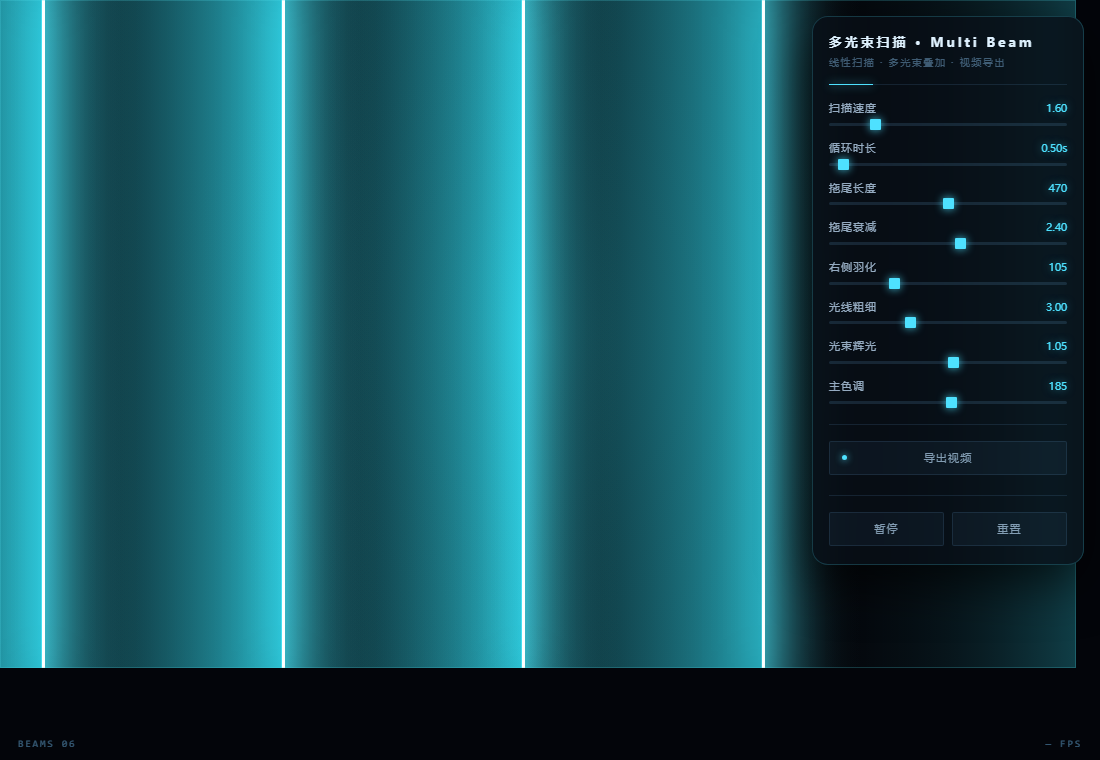
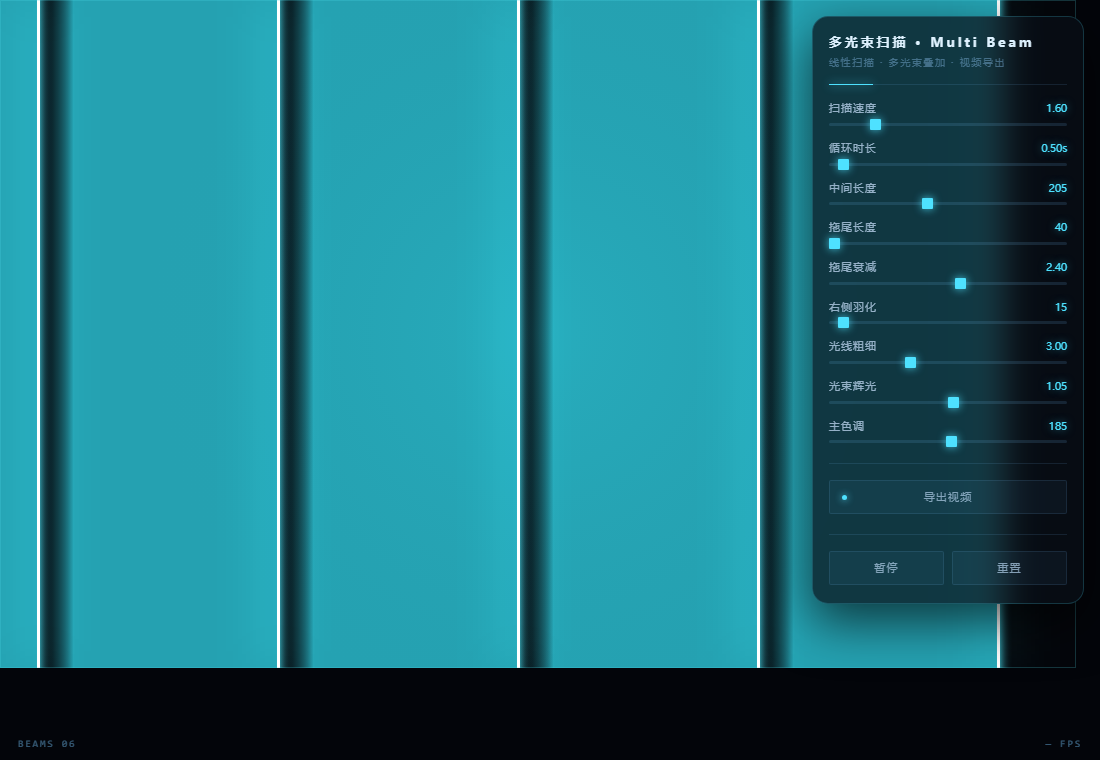
refactor: 多光束扫描更新至 v3.1（中间实心区 + 居中缩放导出）
- 用 v3.1 逻辑替换 multi-beam.html：新增「中间长度」参数，每条光束拆为
  左侧渐变拖尾 + 中间恒定亮度实心区 + 右侧羽化；初始光束位置与回收逻辑同步调整
- 导出流程改为按显示比例居中缩放渲染，下载文件名统一为 multi-beam_*.webm
- 重新生成 screenshots/multi-beam.png（1100×760）
- README 参数要点、index 卡片描述、CHANGELOG v0.8.1、AGENTS 文档基线已同步

diff --git a/experiments/线性扫描/multi-beam.html b/experiments/线性扫描/multi-beam.html
@@ -103,7 +103,6 @@
     height: 3px; background: rgba(120, 200, 255, 0.14); border-radius: 2px;
   }
 
-  /* ---- Select ---- */
   select {
     width: 100%; padding: 8px 10px;
     background: rgba(120, 200, 255, 0.06);
@@ -121,7 +120,6 @@
   select:focus { border-color: var(--accent); box-shadow: 0 0 8px rgba(78, 225, 255, 0.25); }
   select option { background: #080b11; color: #cfe2f2; }
 
-  /* ---- 通用按钮 ---- */
   .btn {
     display: block; width: 100%; padding: 9px 6px;
     font-family: inherit; font-size: 10.5px; letter-spacing: 0.16em;
@@ -142,7 +140,6 @@
     background: #7aebff; color: #041018; box-shadow: 0 0 26px rgba(78, 225, 255, 0.6);
   }
 
-  /* ---- 导出区域 ---- */
   .export-section { margin-top: 20px; padding-top: 16px; border-top: 1px solid var(--line); }
   .export-toggle { position: relative; }
   .export-toggle::before {
@@ -190,9 +187,9 @@
       <div class="ctrl">
         <div class="ctrl-head">
           <span class="ctrl-label">导出时长</span>
-          <span class="ctrl-val" id="exp-dur-val">5s</span>
+          <span class="ctrl-val" id="exp-dur-val">8s</span>
         </div>
-        <input type="range" id="exp-dur" min="1" max="30" step="1" value="5">
+        <input type="range" id="exp-dur" min="1" max="30" step="1" value="8">
       </div>
 
       <div class="ctrl">
@@ -245,9 +242,10 @@
   const config = [
     { key: 'speed',       label: '扫描速度',   min: 0.2, max: 8,   step: 0.1,  value: 1.60 },
     { key: 'cycleTime',   label: '循环时长',   min: 0.2, max: 8,   step: 0.1,  value: 0.50, unit: 's' },
-    { key: 'trailLength', label: '拖尾长度',   min: 40,  max: 900, step: 10,   value: 470 },
+    { key: 'coreLength',  label: '中间长度',   min: 0,   max: 500, step: 5,    value: 205 },
+    { key: 'trailLength', label: '拖尾长度',   min: 40,  max: 900, step: 10,   value: 40 },
     { key: 'trailCurve',  label: '拖尾衰减',   min: 0.4, max: 4,   step: 0.05, value: 2.40 },
-    { key: 'feather',     label: '右侧羽化',   min: 0,   max: 400, step: 5,    value: 105 },
+    { key: 'feather',     label: '右侧羽化',   min: 0,   max: 400, step: 5,    value: 15 },
     { key: 'lineWidth',   label: '光线粗细',   min: 0.5, max: 8,   step: 0.5,  value: 3.00 },
     { key: 'beamGlow',    label: '光束辉光',   min: 0,   max: 2,   step: 0.05, value: 1.05 },
     { key: 'hue',         label: '主色调',     min: 0,   max: 360, step: 1,    value: 185 }
@@ -324,19 +322,21 @@
     return { beams: [], spawnTimer: 0 };
   }
 
-  function resetState(state, p) {
+  function resetState(state) {
     state.beams = [];
     state.spawnTimer = 0;
-    state.beams.push({ x: 0 });
+    // 初始光束放在视野内，保证一开始就有可见的光束
+    state.beams.push({ x: 100 });
   }
 
   /* ==================== 更新逻辑 ==================== */
-  function updateState(state, dt, W, H, p, sc) {
+  function updateState(state, dt, W, H, p) {
     const dtSec = dt / 60;
-    const trail = p.trailLength * sc;
+    const trail = p.trailLength;
+    const core  = p.coreLength;
     const cycle = Math.max(0.05, p.cycleTime);
 
-    /* ---- 生成新光束（允许旧光束未扫完时叠加） ---- */
+    /* ---- 生成新光束（旧光束未扫完也可叠加） ---- */
     state.spawnTimer += dtSec;
 
     let guard = 0;
@@ -344,32 +344,34 @@
       state.spawnTimer -= cycle;
       guard++;
       if (state.beams.length < MAX_BEAMS) {
-        state.beams.push({ x: -trail * 0.5 });
+        state.beams.push({ x: 0 });
       }
     }
     if (guard >= 4) state.spawnTimer = 0;
 
     /* ---- 移动 ---- */
-    const move = p.speed * 5 * dt * sc;
+    const move = p.speed * 5 * dt;
     for (let i = 0; i < state.beams.length; i++) {
       state.beams[i].x += move;
     }
 
     /* ---- 回收完全移出右侧的光束 ---- */
     const kill = W + 60;
+    const back = trail + core;
     if (state.beams.length) {
-      state.beams = state.beams.filter(b => b.x - trail <= kill);
+      state.beams = state.beams.filter(b => b.x - back <= kill);
     }
   }
 
-  /* ==================== 绘制：左侧拖尾 ==================== */
-  function drawTrail(c, bx, W, H, p, sc) {
+  /* ==================== 绘制：左侧拖尾（渐变） ==================== */
+  function drawTrail(c, bx, W, H, p) {
     const hue   = p.hue;
     const glow  = p.beamGlow;
-    const trail = p.trailLength * sc;
+    const trail = p.trailLength;
+    const core  = p.coreLength;
 
-    const xR = bx;
-    const xL = bx - trail;
+    const xR = bx - core;
+    const xL = xR - trail;
 
     if (xR <= 0 || xL >= W) return;
 
@@ -387,11 +389,31 @@
     c.fillRect(a0, 0, a1 - a0, H);
   }
 
-  /* ==================== 绘制：右侧羽化 ==================== */
-  function drawFeather(c, bx, W, H, p, sc) {
+  /* ==================== 绘制：中间实心区（不渐变） ==================== */
+  function drawCoreSolid(c, bx, W, H, p) {
+    const hue  = p.hue;
+    const glow = p.beamGlow;
+    const core = p.coreLength;
+
+    if (core <= 0) return;
+
+    const xR = bx;
+    const xL = bx - core;
+
+    if (xR <= 0 || xL >= W) return;
+
+    const a = Math.min(1, 0.62 * glow);
+    const a0 = Math.max(0, xL);
+    const a1 = Math.min(W, xR);
+    c.fillStyle = `hsla(${hue}, 100%, 60%, ${a.toFixed(4)})`;
+    c.fillRect(a0, 0, a1 - a0, H);
+  }
+
+  /* ==================== 绘制：右侧羽化（渐变） ==================== */
+  function drawFeather(c, bx, W, H, p) {
     const hue     = p.hue;
     const glow    = p.beamGlow;
-    const feather = p.feather * sc;
+    const feather = p.feather;
 
     if (feather <= 0) return;
 
@@ -404,8 +426,8 @@
     const steps = 16;
     for (let i = 0; i <= steps; i++) {
       const t = i / steps;
-      const a = Math.pow(1 - t, 2.4) * 0.55 * glow;
-      g.addColorStop(t, `hsla(${hue}, 100%, 65%, ${a.toFixed(4)})`);
+      const a = Math.pow(1 - t, 2.4) * 0.62 * glow;
+      g.addColorStop(t, `hsla(${hue}, 100%, 65%, ${Math.min(1, a).toFixed(4)})`);
     }
 
     const a0 = Math.max(0, xL);
@@ -414,8 +436,8 @@
     c.fillRect(a0, 0, a1 - a0, H);
   }
 
-  /* ==================== 绘制：核心亮线（硬边 + 辉光） ==================== */
-  function drawCore(c, bx, W, H, p, sc) {
+  /* ==================== 绘制：核心亮线 ==================== */
+  function drawCoreLine(c, bx, W, H, p) {
     const hue  = p.hue;
     const glow = p.beamGlow;
 
@@ -425,7 +447,7 @@
     c.shadowBlur  = 46 * glow + 4;
     c.shadowColor = `hsla(${hue}, 100%, 62%, ${Math.min(1, 0.95 * glow)})`;
     c.strokeStyle = `hsla(${hue}, 100%, 94%, 0.98)`;
-    c.lineWidth   = p.lineWidth * sc;
+    c.lineWidth   = p.lineWidth;
     c.beginPath();
     c.moveTo(bx, 0);
     c.lineTo(bx, H);
@@ -433,8 +455,8 @@
     c.restore();
   }
 
-  /* ==================== 渲染场景（可复用于显示与导出） ==================== */
-  function renderScene(c, state, W, H, p, sc) {
+  /* ==================== 渲染场景（复用于显示与导出） ==================== */
+  function renderScene(c, state, W, H, p) {
     /* ---- 背景 ---- */
     c.globalCompositeOperation = 'source-over';
     c.globalAlpha = 1;
@@ -454,15 +476,16 @@
     c.globalCompositeOperation = 'lighter';
     for (let i = 0; i < state.beams.length; i++) {
       const bx = state.beams[i].x;
-      drawTrail(c, bx, W, H, p, sc);
-      drawFeather(c, bx, W, H, p, sc);
-      drawCore(c, bx, W, H, p, sc);
+      drawTrail(c, bx, W, H, p);
+      drawCoreSolid(c, bx, W, H, p);
+      drawFeather(c, bx, W, H, p);
+      drawCoreLine(c, bx, W, H, p);
     }
 
     /* ---- 边框 ---- */
     c.globalCompositeOperation = 'source-over';
     c.strokeStyle = `hsla(${p.hue}, 80%, 62%, 0.22)`;
-    c.lineWidth = Math.max(1, sc);
+    c.lineWidth = 1;
     c.strokeRect(0.5, 0.5, W - 1, H - 1);
   }
 
@@ -488,10 +511,10 @@
       }
     }
 
-    if (!paused) updateState(mainState, dt, W, H, params, 1);
+    if (!paused) updateState(mainState, dt, W, H, params);
 
     ctx.setTransform(DPR, 0, 0, DPR, 0, 0);
-    renderScene(ctx, mainState, W, H, params, 1);
+    renderScene(ctx, mainState, W, H, params);
 
     infoEl.textContent = 'BEAMS ' + String(mainState.beams.length).padStart(2, '0');
 
@@ -555,14 +578,29 @@
 
     const octx = off.getContext('2d', { alpha: false });
 
-    /* ---- 尺寸缩放：让导出画面与当前显示比例一致 ---- */
-    const displayMin = Math.max(1, Math.min(W, H));
-    const exportMin  = Math.min(ew, eh);
-    const sc = exportMin / displayMin;
+    /* ---- 缩放与居中：保证导出画幅与显示比例一致 ---- */
+    const sc = Math.min(ew, eh) / Math.min(W, H);
+    const rw = W * sc;
+    const rh = H * sc;
+    const ox = (ew - rw) / 2;
+    const oy = (eh - rh) / 2;
 
-    /* ---- 独立状态，从左侧起始 ---- */
+    function paintFrame(state) {
+      octx.setTransform(1, 0, 0, 1, 0, 0);
+      octx.fillStyle = '#04060b';
+      octx.fillRect(0, 0, ew, eh);
+
+      octx.translate(ox, oy);
+      octx.scale(sc, sc);
+
+      renderScene(octx, state, W, H, params);
+
+      octx.setTransform(1, 0, 0, 1, 0, 0);
+    }
+
+    /* ---- 独立状态，从头开始 ---- */
     const state = createState();
-    resetState(state, params);
+    resetState(state);
 
     /* ---- 录制（保持标签页在前台，否则 rAF 被节流丢帧） ---- */
     const stream = off.captureStream(60);
@@ -612,8 +650,7 @@
       };
 
       /* 先渲染一帧，避免流起始为空白 */
-      octx.setTransform(1, 0, 0, 1, 0, 0);
-      renderScene(octx, state, ew, eh, params, sc);
+      paintFrame(state);
 
       recorder.start(100);
 
@@ -629,10 +666,8 @@
         if (dt < 0.001) dt = 0.001;
         if (dt > 3) dt = 3;
 
-        updateState(state, dt, ew, eh, params, sc);
-
-        octx.setTransform(1, 0, 0, 1, 0, 0);
-        renderScene(octx, state, ew, eh, params, sc);
+        updateState(state, dt, W, H, params);
+        paintFrame(state);
 
         const prog = Math.min(1, elapsed / totalMs);
         exportStatus.textContent =
@@ -641,12 +676,9 @@
         if (elapsed < totalMs) {
           requestAnimationFrame(frame);
         } else {
-          /* 末帧推流后再停，避免循环回接处多一截静止画面 */
-          const track = stream.getVideoTracks()[0];
-          if (track && track.requestFrame) track.requestFrame();
           setTimeout(() => {
             try { recorder.stop(); } catch (e) { /* ignore */ }
-          }, 60);
+          }, 120);
         }
       }
 
@@ -694,7 +726,7 @@
         ref.val.textContent = ref.fmt(defaults[k]);
       }
     });
-    resetState(mainState, params);
+    resetState(mainState);
   });
 
   window.addEventListener('keydown', e => {
@@ -712,7 +744,7 @@
 
   /* ==================== 启动 ==================== */
   resize();
-  resetState(mainState, params);
+  resetState(mainState);
   requestAnimationFrame(loop);
 
 })();

diff --git a/index.html b/index.html
@@ -119,7 +119,8 @@ const EXPERIMENTS = [
   {
     title:"多光束扫描 · Multi Beam",
     cat:"线性扫描",
-    desc:"多条光束按循环时长依次从左侧扫入、叠加流过画面，拖尾与羽化可调；支持导出 WebM 视频，作为同一线性扫描方案的另一种用法。",
+    desc:"多条光束按循环时长依次从左侧扫入、叠加流过画面；每条光束由左侧渐变拖尾、中间恒定亮度实心区与右侧羽化构成，支持导出 WebM 视频。",
+
     tags:["线性","扫描","多光束","视频导出"],
     href:"experiments/线性扫描/multi-beam.html",
     thumb:"screenshots/multi-beam.png"

diff --git a/README.md b/README.md
@@ -26,7 +26,7 @@
 | 截图 | 实验 | 分类 | 说明 | 参数要点 |
 |---|---|---|---|---|
 | ![线性扫描](screenshots/linear-sweep.png) | [线性扫描 Linear Sweep](experiments/线性扫描/linear-sweep.html) | 线性扫描 | 竖直光束横向扫过粒子网格，被扫到的粒子点亮并留下余辉，支持循环 / 往返两种扫描模式 | 扫描速度 / 光束宽度 / 光束辉光 / 粒子亮度 / 余辉时长 / 粒子密度 / 粒子尺寸 / 主色调 / 色相扩散 / 网格 / 循环·往返 |
-| ![多光束扫描](screenshots/multi-beam.png) | [多光束扫描 Multi Beam](experiments/线性扫描/multi-beam.html) | 线性扫描 | 多条光束按循环时长依次从左侧扫入、叠加流过画面，同一线性扫描方案的多光束用法 | 扫描速度 / 循环时长 / 拖尾长度 / 拖尾衰减 / 右侧羽化 / 光线粗细 / 光束辉光 / 主色调 + 导出时长·分辨率 |
+| ![多光束扫描](screenshots/multi-beam.png) | [多光束扫描 Multi Beam](experiments/线性扫描/multi-beam.html) | 线性扫描 | 多条光束按循环时长依次从左侧扫入、叠加流过画面；每条光束由左侧渐变拖尾、中间恒定亮度实心区、右侧羽化构成 | 扫描速度 / 循环时长 / 中间长度 / 拖尾长度 / 拖尾衰减 / 右侧羽化 / 光线粗细 / 光束辉光 / 主色调 + 导出时长·分辨率 |
 | ![流场粒子](screenshots/flow-field.png) | [流场粒子 Flow Field](experiments/粒子动势/flow-field.html) | 粒子动势 | 粒子沿确定性噪声场流动成丝带 | 数量 / 密度 / 噪声强度 / 轨迹 / 配色 / 种子 |
 | ![流动线条](screenshots/flow-lines.png) | [粒子流动线条 Flow Lines](experiments/粒子动势/flow-lines.html) | 粒子动势 | 粒子水平拖出流光丝线，匀速横贯画面，**可导出循环视频** | 数量 / 间距 / 抖动 / 周期 / 长度 / 粗细 / 色相 / 亮度 + 导出分辨率·帧率·循环次数 |
 | ![星空闪烁](screenshots/starry-twinkle.png) | [星空闪烁 Starry Twinkle](experiments/粒子动势/starry-twinkle.html) | 粒子动势 | 星芒与星尘散布夜空，各自按周期闪烁，**可导出循环视频** | 星芒·星尘数量 / 闪烁速度·强度 / 大小范围 / 尖角数·中心圆·尖角长度·内凹·基部半角 / 颜色 + 导出周期·分辨率·帧率 |

diff --git a/CHANGELOG.md b/CHANGELOG.md
@@ -2,10 +2,8 @@
 
 ## [v0.8.1] - 2026-10-15
 ### 新增
-- 新增线性扫描类实验「多光束扫描 Multi Beam」：多条光束按循环时长依次从左侧扫入、叠加流过画面并淡出，作为同一线性扫描方案的另一种用法；支持导出 WebM 视频（分辨率 720² / 1080² / 1080×1920 / 1920×1080 / 2160² × 时长 1～30 秒）
+- 新增线性扫描类实验「多光束扫描 Multi Beam」：多条光束按循环时长依次从左侧扫入、叠加流过画面；每条光束由左侧渐变拖尾 + 中间恒定亮度实心区 + 右侧羽化构成，光线粗细/辉光/主色调可调；作为同一线性扫描方案的多光束用法，支持导出 WebM 视频（导出画幅按显示比例居中缩放，分辨率 720² / 1080² / 1080×1920 / 1920×1080 / 2160² × 时长 1～30 秒）
 - 新增 `screenshots/multi-beam.png`（1100×760），README 索引与 index 卡片已登记
-### 变更
-- 导出结束流程对齐仓库经验：末帧通过 `stream.getVideoTracks()[0].requestFrame()` 推流，再等待一个帧间隔后停止录制，避免循环视频尾部多出静止画面
 
 ## [v0.8.0] - 2026-10-15
 ### 新增

diff --git a/AGENTS.md b/AGENTS.md
@@ -1,6 +1,6 @@
 # AGENTS.md · 项目规则
 
-> 📌 **文档基线**：2026-10-15（v0.8.1，commit `feat: 多光束线性扫描实验（多光束叠加 + 视频导出）`）完成四件套与目录规范更新
+> 📌 **文档基线**：2026-10-15（v0.8.1，commit `feat: 多光束线性扫描实验 v3.1（中间实心区 + 居中缩放导出 + 视频导出）`）完成四件套与目录规范更新
 > **更新文档/代码后，请更新此行**（新日期 + 新 commit hash），并在 CHANGELOG 追加版本
 
 ## 技术栈
